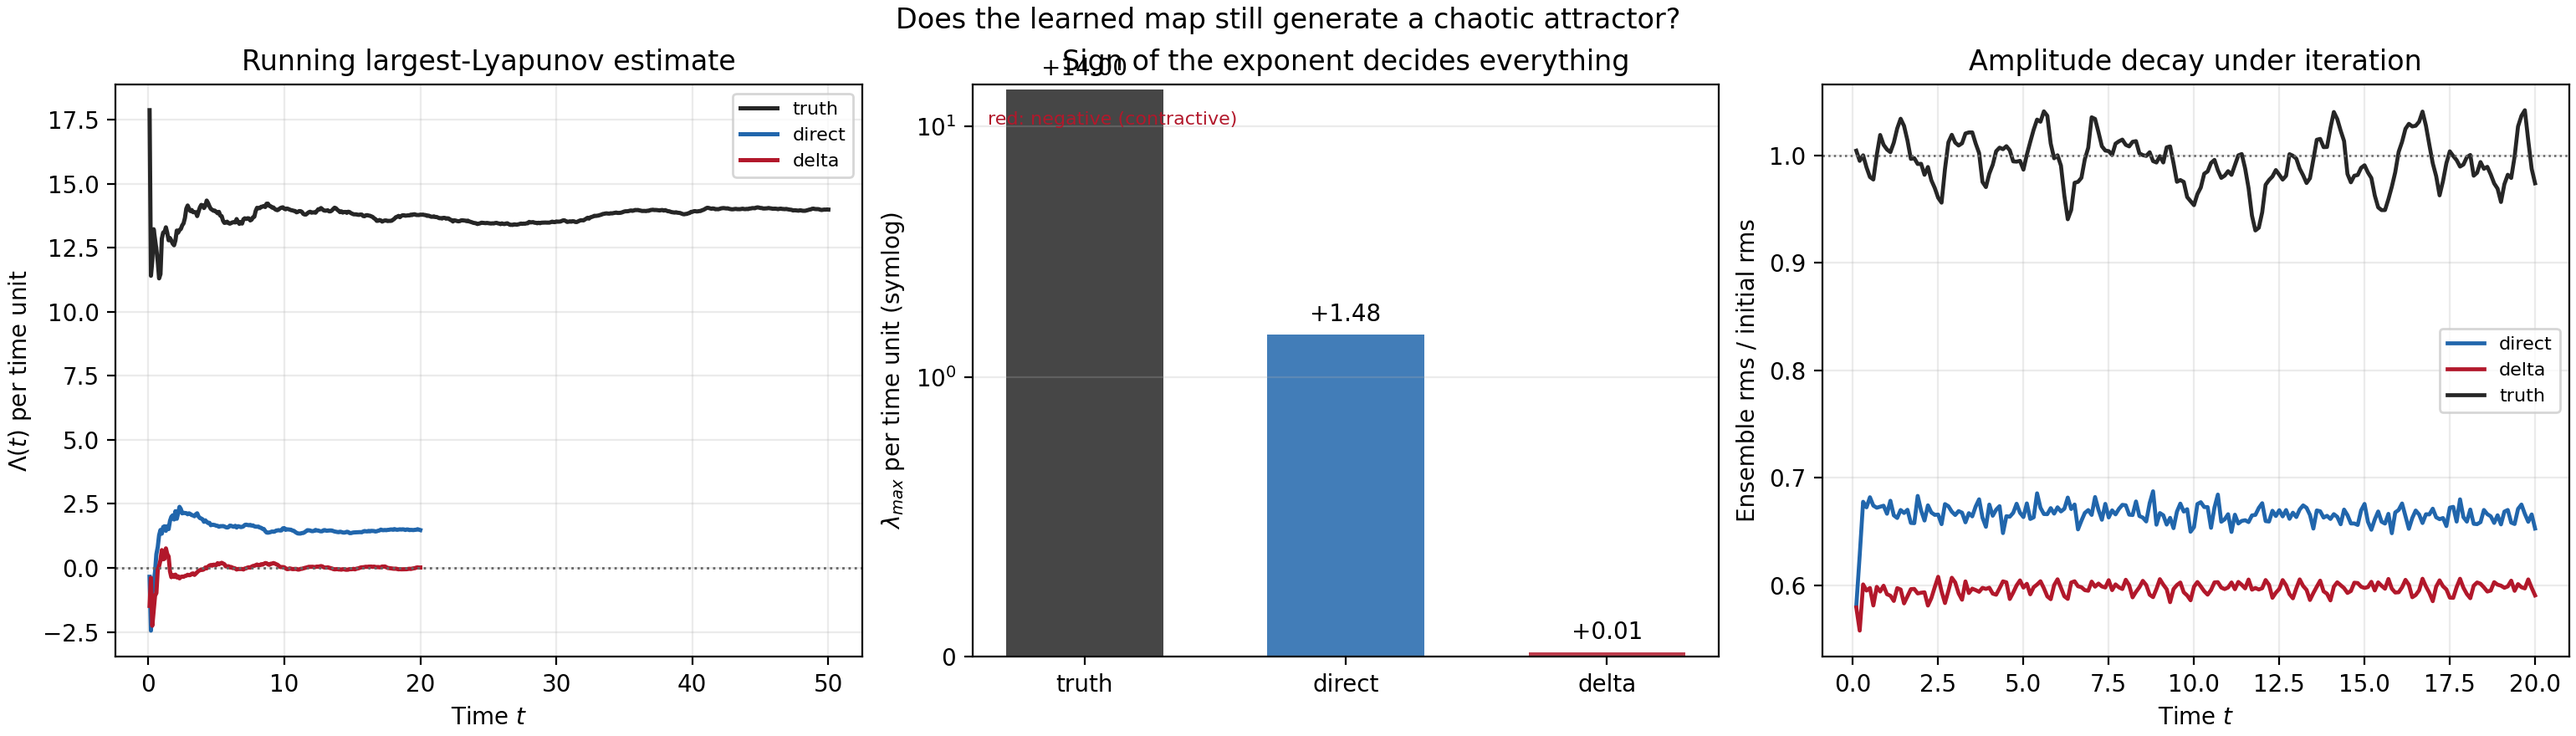
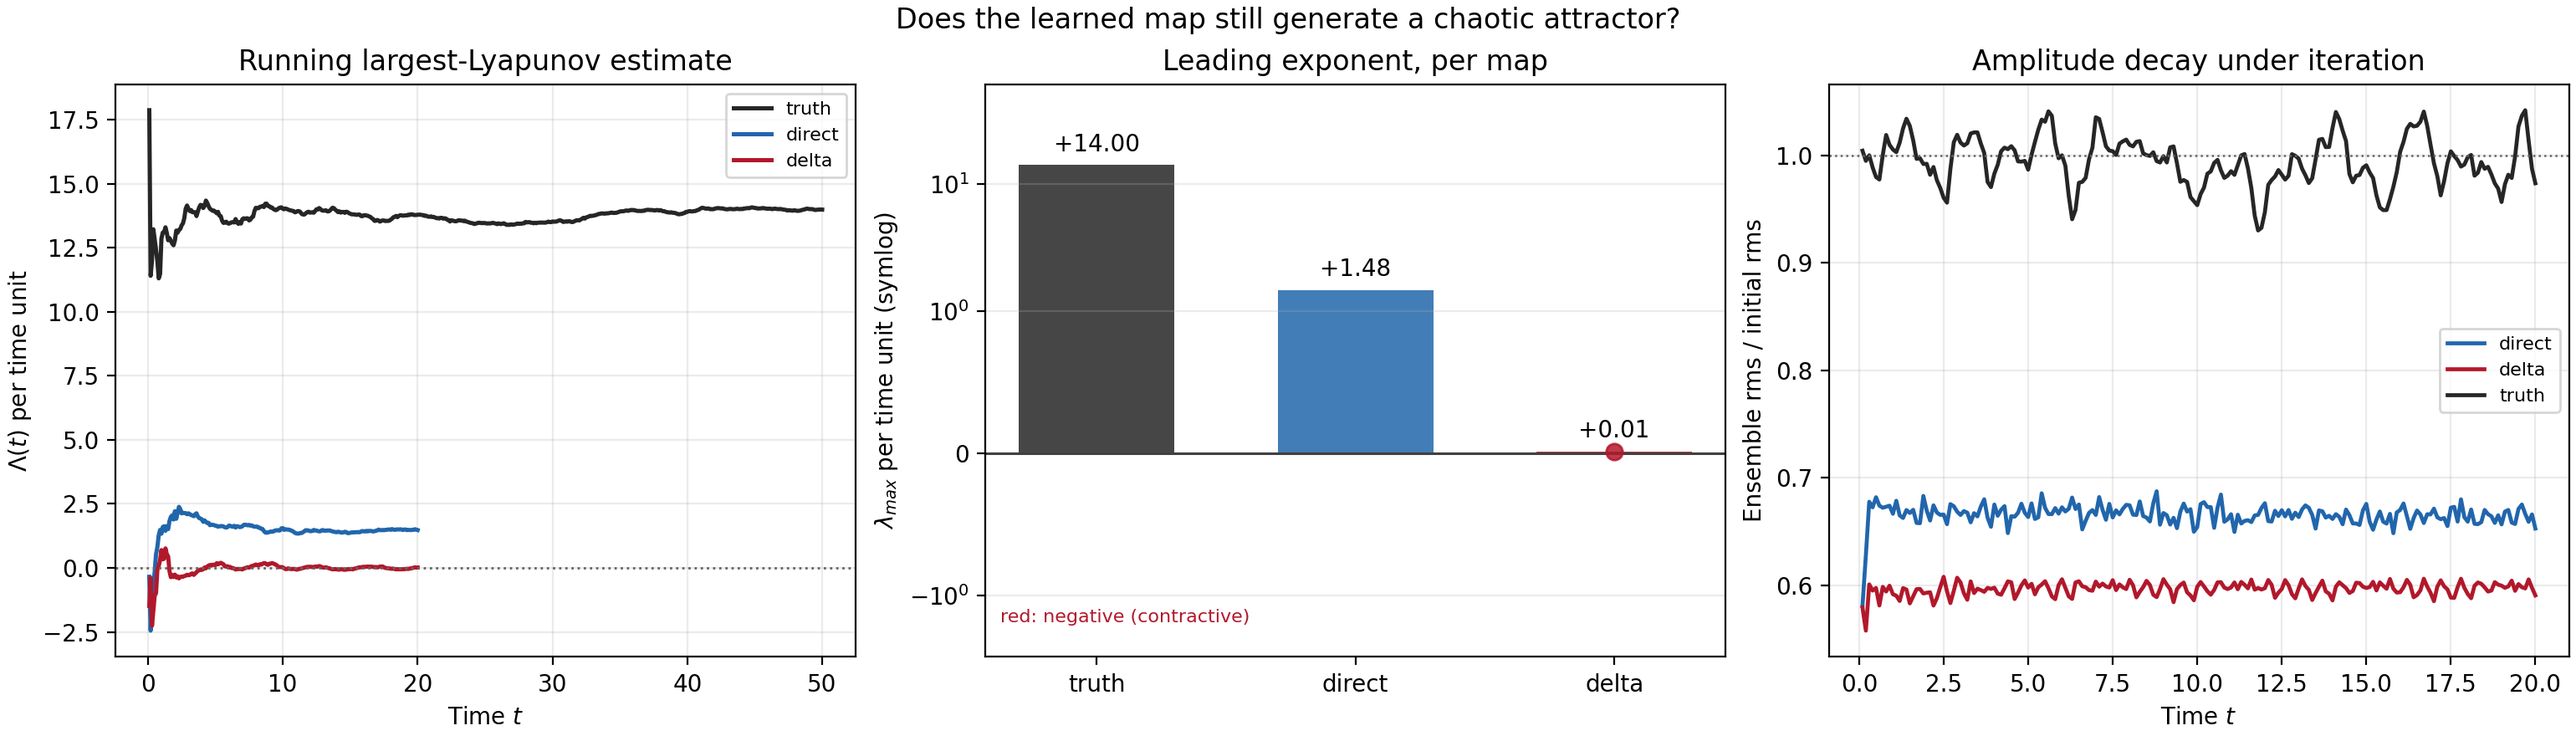
fig03: make the near-zero delta exponent visible on the symlog axis
A bar of height 0.01 cannot be seen once the axis spans -3..60, so the panel
read as 'delta has no value'. Mark the bar top with a dot and keep the numeric
label; retitle the panel so it no longer collides with the figure suptitle.

diff --git a/diagnose_codecs.py b/diagnose_codecs.py
@@ -898,6 +898,11 @@ def figure_lyapunov(
                          (bar.get_x() + bar.get_width() / 2, value),
                          textcoords="offset points", xytext=(0, 6 if value >= 0 else -14),
                          ha="center", fontsize=10)
+        # On a symlog axis a bar of height 0.01 is invisible; mark the top so
+        # "essentially zero" reads as a datum rather than as a missing bar.
+        if abs(value) < 1.0:
+            axes[1].plot([bar.get_x() + bar.get_width() / 2], [value], marker="o", ms=7,
+                         color=bar.get_facecolor(), zorder=5, clip_on=False)
     axes[1].axhline(0.0, color="0.25", lw=1.1)
     # The true exponent is 40x the learned ones, so a linear axis would hide the
     # two numbers that matter.  symlog keeps the sign visible.

diff --git a/REPORT_v3.md b/REPORT_v3.md
@@ -10,7 +10,7 @@
    峰值学习率的最优点在 **6e-3**（direct 0.7977 [0.7949, 0.7993]，delta 0.8450 [0.8425, 0.8466]），
    3e-3…1e-2 是平台，2e-2 与 5e-4 两端都掉。
 2. **统计指标极不稳，而且方向可能是反的**。同一设置下 3 个 seed 的一步 NRMSE 只差 0.005，
-   而 log 谱相关能在 0.44…0.72 之间摆动（direct 6e-3）。更糟的是它**系统性奖励坍缩**：
+   而 log 谱相关能在 0.44…0.70 之间摆动（direct 6e-3 的三个 seed）。更糟的是它**系统性奖励坍缩**：
    delta 网格上 `corr(谱相关, rms 比) = −0.91`、`corr(谱相关, 一步 NRMSE) = +0.84`——
    谱相关最高的那次（0.826）恰恰是振幅只剩 0.54、均值漂到 1.56 的那次。
    **v2 笔记里"global 标准化把谱相关从 0.425 提到 0.678"应撤回**：0.678 是 3 个 seed 的最大值，均值 0.586。
